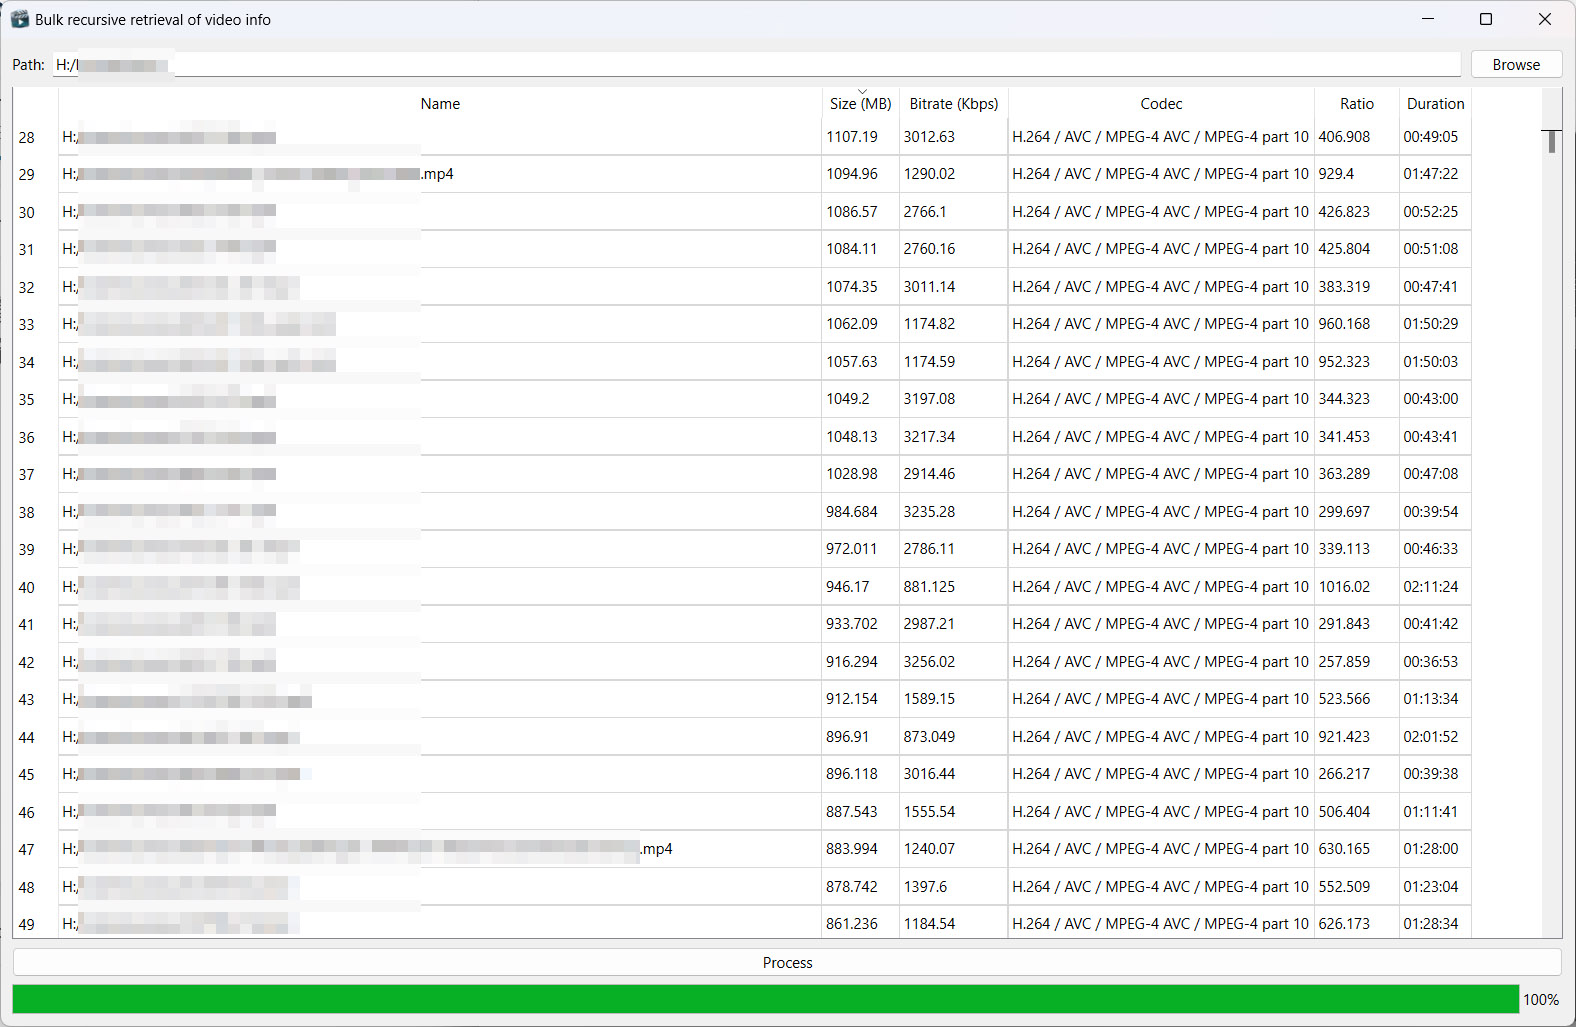
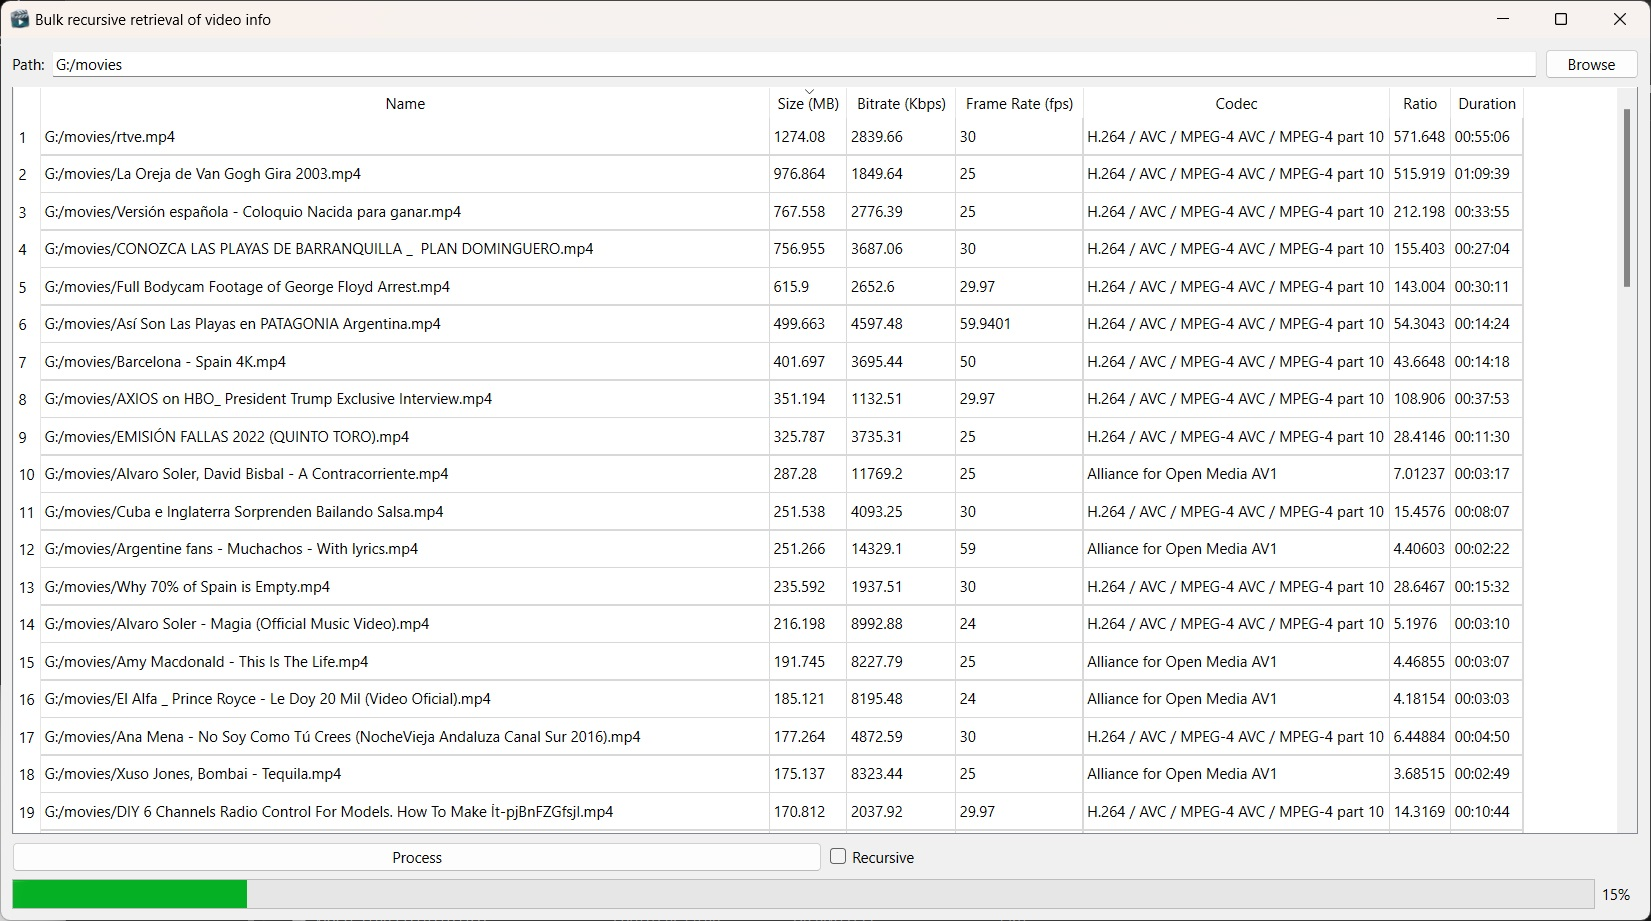
add framerate info

diff --git a/mainwindow.cpp b/mainwindow.cpp
@@ -33,7 +33,7 @@ void MainWindow::setupUI()
 
     tableView = new QTableView(this);
     model = new QStandardItemModel(this);
-    headers << "Name" << "Size (MB)" << "Bitrate (Kbps)" << "Codec" << "Ratio" << "Duration";
+    headers << "Name" << "Size (MB)" << "Bitrate (Kbps)" << "Frame Rate (fps)" << "Codec" << "Ratio" << "Duration";
     model->setHorizontalHeaderLabels(headers);
     tableView->setModel(model);
     tableView->horizontalHeader()->setSectionResizeMode(QHeaderView::ResizeToContents);
@@ -97,6 +97,7 @@ void MainWindow::populateTable(const std::vector<VideoInfo>& videoList)
         row << new QStandardItem(QString::fromStdString(video.path));
         row << new NumericStandardItem(QString::number(video.size));
         row << new NumericStandardItem(QString::number(video.bitrate));
+        row << new NumericStandardItem(QString::number(video.frameRate));
         row << new QStandardItem(QString::fromStdString(video.codec));
         row << new NumericStandardItem(QString::number(video.ratio));
         row << new QStandardItem(QTime::fromMSecsSinceStartOfDay(video.duration * 1000).toString());

diff --git a/video_info.cpp b/video_info.cpp
@@ -87,6 +87,8 @@ void VideoScanner::GetVideoInfo(const std::wstring& path, std::vector<VideoInfo>
     double size = static_cast<double>(QFileInfo(QString::fromStdWString(path)).size()) / (1024.0 * 1024.0);
     double ratio = (bitrate > 0.0) ? (size * size / bitrate) : 0.0;
     int duration = static_cast<int>(pFormatCtx->duration / AV_TIME_BASE);
+    AVRational frameRateRational = pFormatCtx->streams[videoStream]->avg_frame_rate;
+    double frameRate = av_q2d(frameRateRational);
 
     VideoInfo videoInfo;
     videoInfo.path = realpath;
@@ -95,6 +97,7 @@ void VideoScanner::GetVideoInfo(const std::wstring& path, std::vector<VideoInfo>
     videoInfo.size = size;
     videoInfo.ratio = ratio;
     videoInfo.duration = (duration >= 0) ? duration : 0;
+    videoInfo.frameRate = frameRate;
 
     videoList.push_back(videoInfo);
     avformat_close_input(&pFormatCtx);

diff --git a/video_info.h b/video_info.h
@@ -12,6 +12,7 @@ struct VideoInfo {
     double size;
     double ratio;
     int duration;
+    double frameRate;
 };
 
 class VideoScanner : public QObject {
